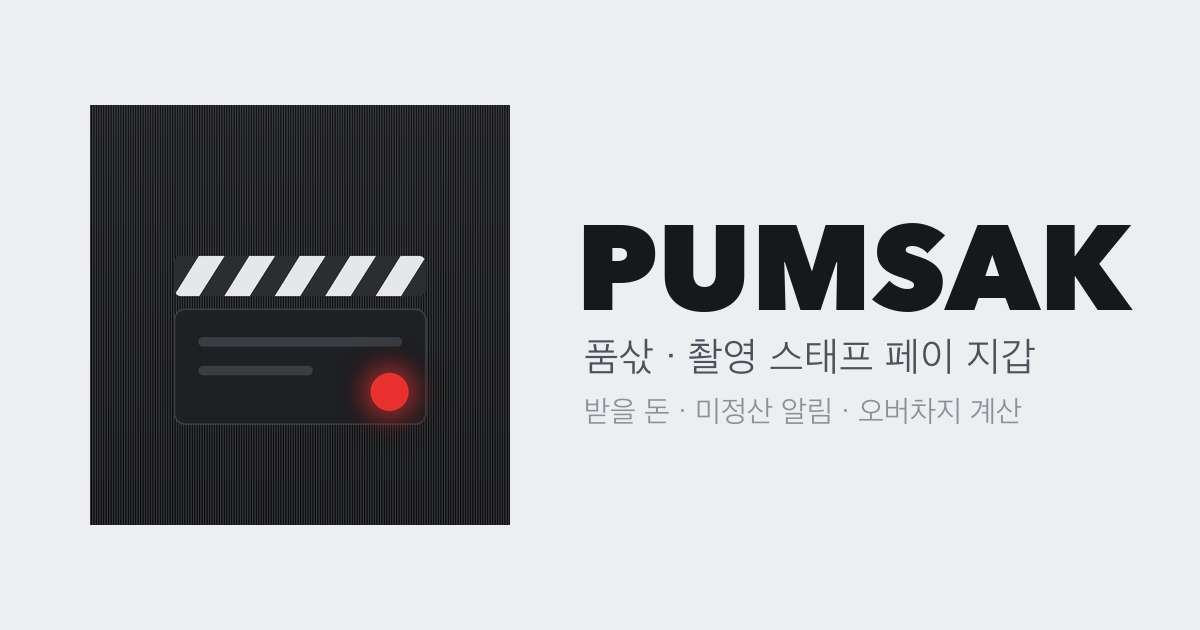
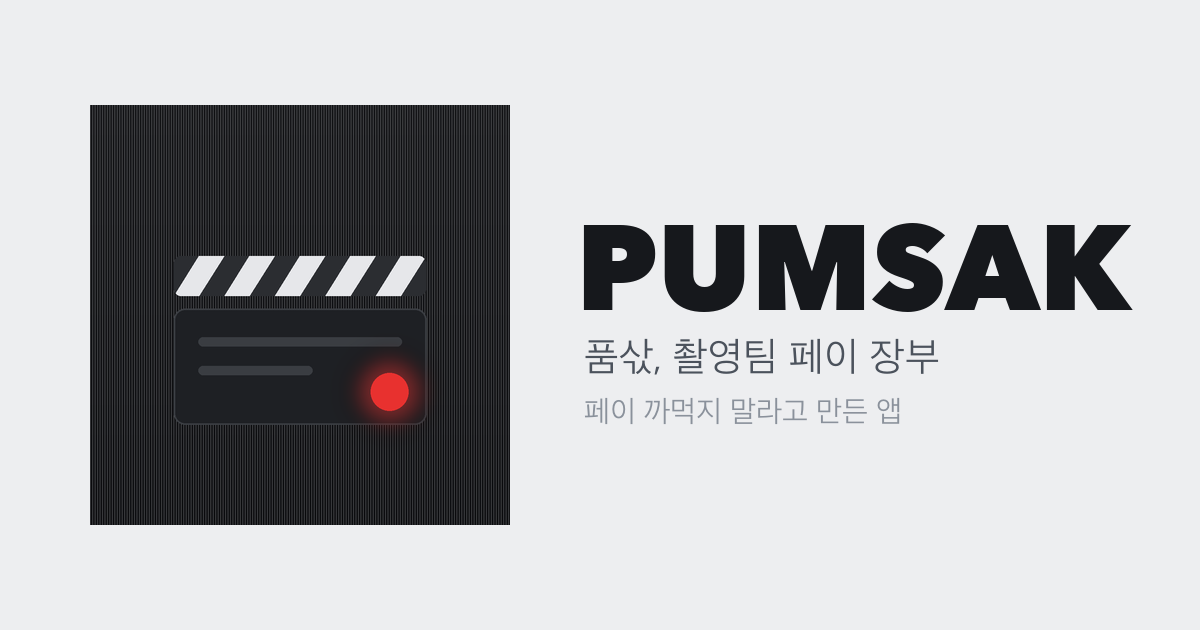
스토리 이미지를 손글씨·포스트잇 낙서 스타일로, 앱 소개 문구 말투 수정

Changed region(s): [[0.555, 0.5429, 0.8633, 0.6032], [0.4625, 0.6333, 0.8633, 0.6937]]

diff --git a/index.html b/index.html
@@ -3,9 +3,9 @@
 <head>
 <meta charset="utf-8">
 <meta name="viewport" content="width=device-width,initial-scale=1,maximum-scale=1,user-scalable=no,viewport-fit=cover">
-<meta name="description" content="뮤비·광고 촬영 스태프를 위한 페이 지갑. 데이페이·오버차지·3.3%·사비·미정산 알림을 한 번에.">
+<meta name="description" content="촬영 끝나고 페이 까먹지 말라고 만든 앱. 오버차지, 3.3%, 사비까지 알아서 계산해줘요.">
 <meta property="og:title" content="품삯 — 촬영 스태프 페이 지갑">
-<meta property="og:description" content="받을 돈, 미정산 촬영, 오버차지 계산을 한눈에.">
+<meta property="og:description" content="촬영 끝나고 페이 까먹지 말라고 만든 앱">
 <meta property="og:image" content="icons/og.png">
 <link rel="manifest" href="manifest.webmanifest">
 <link rel="icon" href="icons/icon-192.png">
@@ -19,8 +19,8 @@
 <meta name="theme-color" content="#EDEEF0">
 <link rel="preconnect" href="https://fonts.googleapis.com">
 <link rel="preconnect" href="https://fonts.gstatic.com" crossorigin>
-<link rel="stylesheet" media="print" onload="this.media='all'" href="https://fonts.googleapis.com/css2?family=Noto+Sans+KR:wght@400;500;600;700;800&family=Outfit:wght@500;600;700;800&display=swap">
-<noscript><link rel="stylesheet" href="https://fonts.googleapis.com/css2?family=Noto+Sans+KR:wght@400;500;600;700;800&family=Outfit:wght@500;600;700;800&display=swap"></noscript>
+<link rel="stylesheet" media="print" onload="this.media='all'" href="https://fonts.googleapis.com/css2?family=Noto+Sans+KR:wght@400;500;600;700;800&family=Outfit:wght@500;600;700;800&family=Gaegu:wght@400;700&display=swap">
+<noscript><link rel="stylesheet" href="https://fonts.googleapis.com/css2?family=Noto+Sans+KR:wght@400;500;600;700;800&family=Outfit:wght@500;600;700;800&family=Gaegu:wght@400;700&display=swap"></noscript>
 <style>
 :root{
   --bg:#EDEEF0; --surface:#FBFBFC; --surface-2:#F4F5F6; --surface-3:#E7E8EB;
@@ -1008,40 +1008,63 @@ function wrapText(g, text, maxW) {
 function rr(g, x, y, w, h, r) { g.beginPath(); g.moveTo(x + r, y); g.arcTo(x + w, y, x + w, y + h, r); g.arcTo(x + w, y + h, x, y + h, r); g.arcTo(x, y + h, x, y, r); g.arcTo(x, y, x + w, y, r); g.closePath(); }
 async function drawStory() {
   const f = fortune(), W = 1080, H = 1920;
-  try { await Promise.all(['800 72px "Noto Sans KR"', '500 34px "Noto Sans KR"', '800 64px Outfit'].map(x => document.fonts.load(x))); } catch (e) {}
+  const HAND = 'Gaegu, "Noto Sans KR", "Apple SD Gothic Neo", sans-serif';
+  try { await Promise.all(['700 90px Gaegu', '400 50px Gaegu'].map(x => document.fonts.load(x, '가나다'))); } catch (e) {}
   const c = document.createElement('canvas'); c.width = W; c.height = H; const g = c.getContext('2d');
-  const KR = '"Noto Sans KR", "Apple SD Gothic Neo", sans-serif', EN = 'Outfit, "Avenir Next", sans-serif';
-  // 블랙 메탈 배경 + 헤어라인
-  const bg = g.createLinearGradient(0, 0, W * .4, H); bg.addColorStop(0, '#2A2C31'); bg.addColorStop(.5, '#16171A'); bg.addColorStop(1, '#0C0D0F');
-  g.fillStyle = bg; g.fillRect(0, 0, W, H);
-  g.globalAlpha = .035; g.fillStyle = '#fff'; for (let x = 0; x < W; x += 3) g.fillRect(x, 0, 1, H); g.globalAlpha = 1;
-  const glow = g.createRadialGradient(W * .78, H * .12, 0, W * .78, H * .12, 700); glow.addColorStop(0, 'rgba(255,255,255,.10)'); glow.addColorStop(1, 'rgba(255,255,255,0)'); g.fillStyle = glow; g.fillRect(0, 0, W, H);
-  // 상단: 워드마크 + 날짜
-  g.textBaseline = 'alphabetic';
-  g.font = `800 76px ${EN}`; g.fillStyle = '#3A3D43'; g.fillText('PUMSAK', 90, 230);
-  g.fillStyle = 'rgba(255,255,255,.10)'; g.fillText('PUMSAK', 90, 228);
-  const d = parse(TODAY); g.font = `500 34px ${KR}`; g.fillStyle = '#8A8F97'; g.textAlign = 'right';
-  g.fillText(`${d.getFullYear()}. ${d.getMonth() + 1}. ${d.getDate()} ${WD[d.getDay()]}요일`, W - 90, 224); g.textAlign = 'left';
-  // 슬레이트 스트라이프
-  const sy = 330; g.save(); rr(g, 90, sy, W - 180, 54, 14); g.clip(); g.fillStyle = '#2B2D31'; g.fillRect(90, sy, W - 180, 54);
-  g.fillStyle = '#E6E7EA'; for (let x = 60; x < W; x += 150) { g.beginPath(); g.moveTo(x, sy + 54); g.lineTo(x + 40, sy); g.lineTo(x + 100, sy); g.lineTo(x + 60, sy + 54); g.closePath(); g.fill(); } g.restore();
-  // 운세 카드
-  const cx = 90, cy = 420, cw = W - 180, ch = 1080;
-  g.save(); g.shadowColor = 'rgba(0,0,0,.55)'; g.shadowBlur = 60; g.shadowOffsetY = 24; rr(g, cx, cy, cw, ch, 44); g.fillStyle = '#F6F5F2'; g.fill(); g.restore();
-  g.font = `600 36px ${KR}`; g.fillStyle = '#8A919B'; g.fillText('오늘의 촬영운', cx + 70, cy + 120);
-  g.font = `700 54px ${KR}`; for (let i = 0; i < 5; i++) { g.fillStyle = i < f.score ? '#E28B0B' : 'rgba(226,139,11,.2)'; g.fillText('★', cx + cw - 70 - (5 - i) * 58, cy + 124); }
-  g.font = `800 76px ${KR}`; g.fillStyle = '#16181C';
-  const lines = wrapText(g, f.line, cw - 140), lh = 104, top = cy + 260 + Math.max(0, (4 - lines.length)) * lh / 2;
-  lines.forEach((l, i) => g.fillText(l, cx + 70, top + i * lh));
-  g.fillStyle = '#E1E3E6'; g.fillRect(cx + 70, cy + ch - 220, cw - 140, 2);
-  g.font = `500 38px ${KR}`; g.fillStyle = '#6B7280';
-  wrapText(g, f.sub, cw - 140).slice(0, 2).forEach((l, i) => g.fillText(l, cx + 70, cy + ch - 140 + i * 54));
-  // REC 점
-  g.fillStyle = '#E8312F'; g.beginPath(); g.arc(cx + cw - 80, cy + 110, 0, 0, 7); g.fill();
+  const rnd = seeded('story-' + TODAY), j = (n = 4) => (rnd() - .5) * n;
+  // 삐뚤빼뚤 선
+  const wob = (pts, close) => { g.beginPath(); pts.forEach(([x, y], i) => { const px = x + j(3), py = y + j(3); i ? g.lineTo(px, py) : g.moveTo(px, py); }); if (close) g.closePath(); };
+  const wobRect = (x, y, w, h) => { const p = []; const seg = 8; for (let i = 0; i <= seg; i++) p.push([x + w * i / seg, y]); for (let i = 1; i <= seg; i++) p.push([x + w, y + h * i / seg]); for (let i = 1; i <= seg; i++) p.push([x + w - w * i / seg, y + h]); for (let i = 1; i < seg; i++) p.push([x, y + h - h * i / seg]); wob(p, true); };
+  const star = (cx, cy, r, fill) => { const p = []; for (let i = 0; i < 10; i++) { const a = -Math.PI / 2 + i * Math.PI / 5, rr = i % 2 ? r * .45 : r; p.push([cx + Math.cos(a) * rr, cy + Math.sin(a) * rr]); } wob(p, true); if (fill) { g.fillStyle = '#FFB938'; g.fill(); } g.lineWidth = 5; g.strokeStyle = '#2B2B2B'; g.stroke(); };
+  // 노란 모눈 메모지
+  g.fillStyle = '#FFEFB5'; g.fillRect(0, 0, W, H);
+  g.strokeStyle = 'rgba(214,176,90,.28)'; g.lineWidth = 2;
+  for (let x = 40; x < W; x += 60) { g.beginPath(); g.moveTo(x, 0); g.lineTo(x, H); g.stroke(); }
+  for (let y = 40; y < H; y += 60) { g.beginPath(); g.moveTo(0, y); g.lineTo(W, y); g.stroke(); }
+  // 제목 (살짝 기울게) + 밑줄 낙서
+  const d = parse(TODAY);
+  g.save(); g.translate(100, 300); g.rotate(-.05);
+  g.font = `700 104px ${HAND}`; g.fillStyle = '#2B2B2B'; g.fillText('오늘의 촬영운', 0, 0);
+  g.lineWidth = 7; g.strokeStyle = '#FF6B6B'; g.lineCap = 'round';
+  wob(Array.from({ length: 14 }, (_, i) => [i * 45, 34 + (i % 2 ? 10 : -4)])); g.stroke();
+  g.restore();
+  g.save(); g.translate(W - 110, 190); g.rotate(.08); g.textAlign = 'right';
+  g.font = `400 54px ${HAND}`; g.fillStyle = '#7A6A45'; g.fillText(`${d.getMonth() + 1}/${d.getDate()} (${WD[d.getDay()]})`, 0, 0); g.restore();
+  // 포스트잇 (비뚤게) + 그림자
+  const nx = 120, ny = 470, nw = 840, nh = 900;
+  g.save(); g.translate(nx + nw / 2, ny + nh / 2); g.rotate(.025); g.translate(-nw / 2, -nh / 2);
+  g.save(); g.shadowColor = 'rgba(120,90,20,.25)'; g.shadowBlur = 30; g.shadowOffsetY = 18; g.fillStyle = '#FFFDF4'; g.fillRect(0, 0, nw, nh); g.restore();
+  g.fillStyle = 'rgba(0,0,0,.035)'; g.beginPath(); g.moveTo(nw, nh - 70); g.lineTo(nw - 70, nh); g.lineTo(nw, nh); g.fill(); // 접힌 귀퉁이
+  // 마스킹 테이프
+  g.save(); g.translate(nw / 2, -6); g.rotate(-.06); g.fillStyle = 'rgba(255,170,190,.72)'; g.fillRect(-150, -34, 300, 68);
+  g.fillStyle = 'rgba(255,255,255,.35)'; for (let i = -140; i < 150; i += 26) g.fillRect(i, -34, 10, 68); g.restore();
+  // 별점
+  g.font = `400 50px ${HAND}`; g.fillStyle = '#8A7A55'; g.fillText('럭키지수', 70, 130);
+  for (let i = 0; i < 5; i++) star(330 + i * 82, 112, 32, i < f.score);
+  // 운세 한 줄
+  g.font = `700 92px ${HAND}`; g.fillStyle = '#2B2B2B';
+  const lines = wrapText(g, f.line, nw - 150), lh = 116, top = 330 + Math.max(0, 3 - lines.length) * lh / 2;
+  lines.forEach((l, i) => g.fillText(l, 72 + j(6), top + i * lh));
+  // 한마디
+  g.font = `400 54px ${HAND}`; g.fillStyle = '#8A7A55';
+  wrapText(g, '→ ' + f.sub, nw - 150).slice(0, 2).forEach((l, i) => g.fillText(l, 72, nh - 150 + i * 64));
+  g.restore();
+  // 슬레이트 친구 낙서 (오른쪽 아래)
+  g.save(); g.translate(790, 1500); g.rotate(-.12); g.lineWidth = 6; g.strokeStyle = '#2B2B2B'; g.lineJoin = 'round'; g.lineCap = 'round';
+  wobRect(0, 60, 190, 140); g.fillStyle = '#3A3A3A'; g.fill(); g.stroke();                        // 몸통
+  g.save(); g.translate(0, 58); g.rotate(-.22); wobRect(0, -40, 196, 40); g.fillStyle = '#fff'; g.fill(); g.stroke();
+  g.fillStyle = '#2B2B2B'; for (let x = 18; x < 190; x += 44) { g.beginPath(); g.moveTo(x, 0); g.lineTo(x + 18, -40); g.lineTo(x + 36, -40); g.lineTo(x + 18, 0); g.fill(); } g.restore(); // 뚜껑
+  g.fillStyle = '#fff'; [[62, 118], [128, 118]].forEach(([x, y]) => { g.beginPath(); g.arc(x, y, 9, 0, 7); g.fill(); });      // 눈
+  g.fillStyle = 'rgba(255,120,140,.8)'; [[42, 146], [150, 146]].forEach(([x, y]) => { g.beginPath(); g.ellipse(x, y, 16, 9, 0, 0, 7); g.fill(); }); // 볼터치
+  g.strokeStyle = '#fff'; g.lineWidth = 5; wob([[84, 150], [95, 158], [106, 150]]); g.stroke();                                  // 입
+  g.strokeStyle = '#2B2B2B'; g.lineWidth = 6; wob([[60, 200], [52, 250], [40, 252]]); g.stroke(); wob([[130, 200], [138, 250], [152, 252]]); g.stroke(); // 다리
+  g.fillStyle = '#7CC6FF'; g.beginPath(); g.moveTo(214, 70); g.quadraticCurveTo(232, 100, 214, 112); g.quadraticCurveTo(196, 100, 214, 70); g.fill(); // 땀
+  g.restore();
+  g.save(); g.translate(430, 1590); g.rotate(-.05); g.font = `400 46px ${HAND}`; g.fillStyle = '#7A6A45'; g.fillText('오늘도 무사 랩', 0, 0);
+  g.fillText('기원합니다…', 30, 58); g.restore();
   // 하단
-  g.fillStyle = '#E8312F'; g.beginPath(); g.arc(104, 1690, 13, 0, 7); g.fill();
-  g.font = `700 40px ${KR}`; g.fillStyle = '#E6E7EA'; g.fillText('품삯', 134, 1704);
-  g.font = `500 34px ${KR}`; g.fillStyle = '#8A8F97'; g.fillText('촬영 스태프 페이 지갑 · 매일 바뀌는 촬영운', 90, 1770);
+  g.font = `700 64px ${HAND}`; g.fillStyle = '#2B2B2B'; g.fillText('품삯', 100, 1760);
+  g.font = `400 46px ${HAND}`; g.fillStyle = '#7A6A45'; g.fillText('페이 까먹지 말라고 만든 앱', 100, 1822);
   return c;
 }
 async function shareStory() {
@@ -1728,6 +1751,6 @@ initCloud();
 })();
 </script>
 
-<script>if ('serviceWorker' in navigator) addEventListener('load', () => navigator.serviceWorker.register('sw.js?v=202609232009').catch(() => {}));</script>
+<script>if ('serviceWorker' in navigator) addEventListener('load', () => navigator.serviceWorker.register('sw.js?v=202609232012').catch(() => {}));</script>
 </body>
 </html>

diff --git a/sw.js b/sw.js
@@ -1,4 +1,4 @@
-const C = 'pumsak-202609232009';
+const C = 'pumsak-202609232012';
 self.addEventListener('install', e => { self.skipWaiting(); e.waitUntil(caches.open(C).then(c => c.addAll(['./', 'index.html', 'manifest.webmanifest', 'icons/icon-192.png']))); });
 self.addEventListener('activate', e => e.waitUntil(caches.keys().then(ks => Promise.all(ks.filter(k => k !== C).map(k => caches.delete(k)))).then(() => self.clients.claim())));
 self.addEventListener('fetch', e => {
